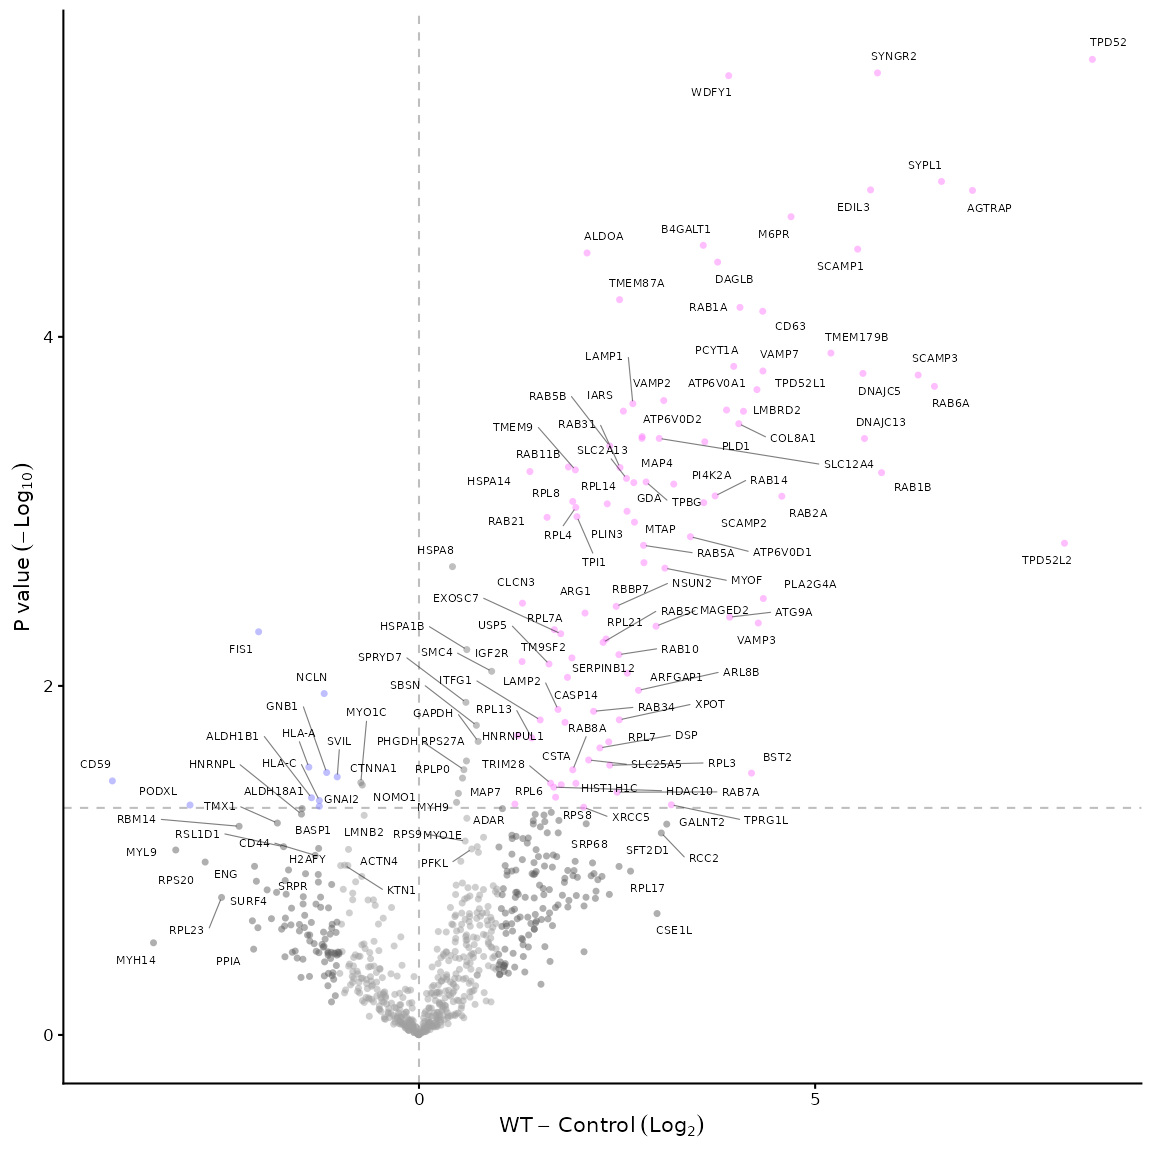
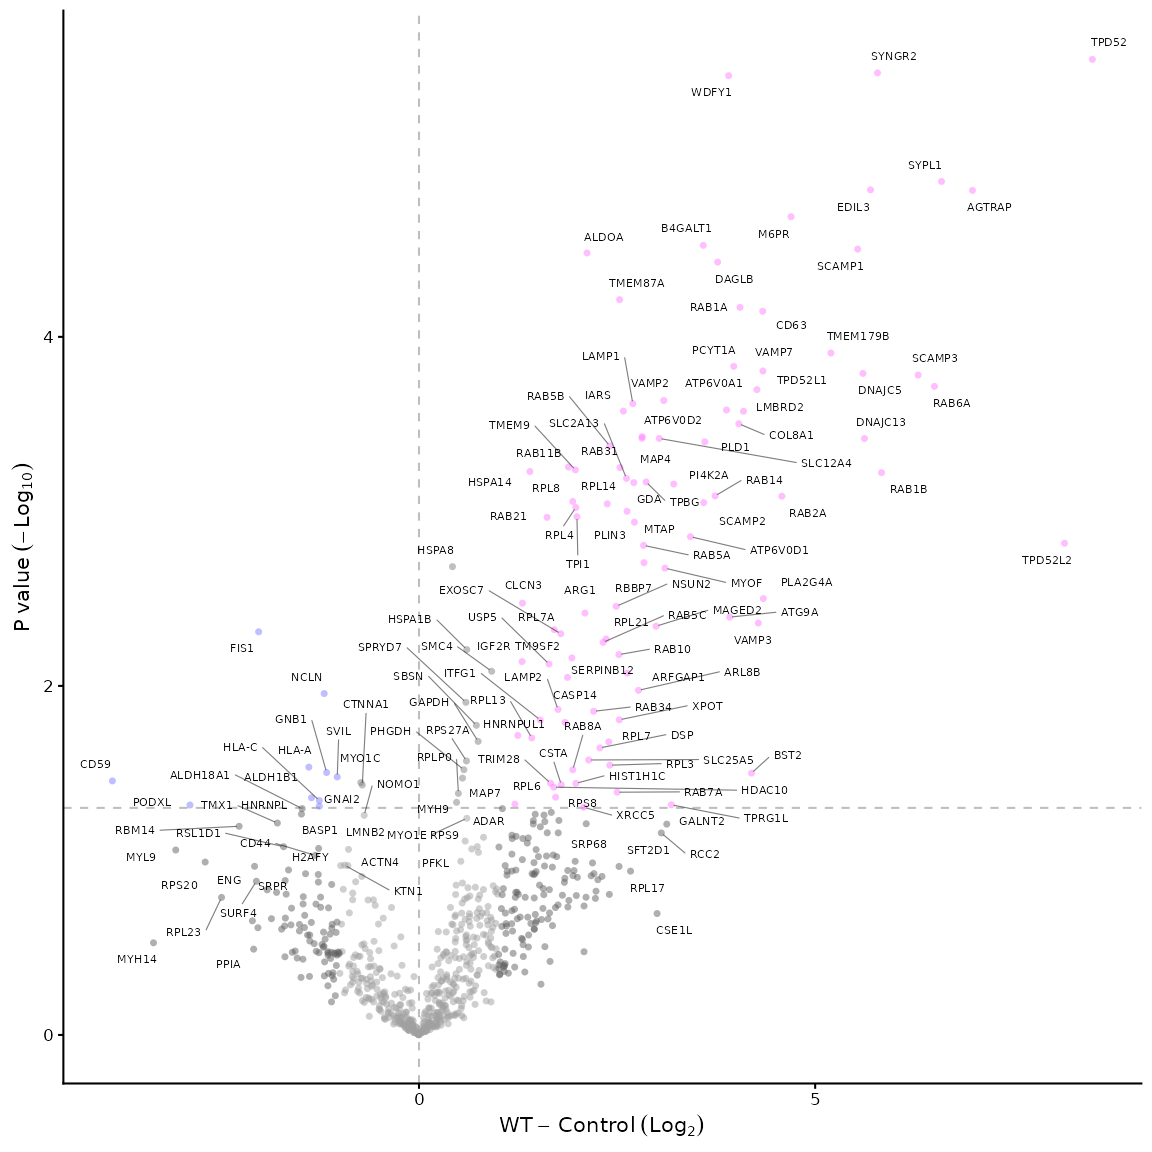
Deploying to gh-pages from @ quantixed/VolcanoPlotR@602afdd81a6dcf5f759c82663aa2ca5de7d788dd 🚀

diff --git a/articles/outputs.html b/articles/outputs.html
@@ -163,12 +163,21 @@ Some examples are shown below:</p>
 <h3 id="pca-plot">PCA plot<a class="anchor" aria-label="anchor" href="#pca-plot"></a>
 </h3>
 <p>This can be generated using the <code><a href="../reference/pca_plot_maxquant.html">pca_plot_maxquant()</a></code>
-function. The PCA plot shows a comparison between runs (experimental
-repeats), rather than between proteins.</p>
+function. The PCA plot by default shows a comparison between runs
+(experimental repeats), rather than between proteins.</p>
 <div class="sourceCode" id="cb4"><pre class="downlit sourceCode r">
-<code class="sourceCode R"><span><span class="co"># now we can generate the mean vs mean plot</span></span>
+<code class="sourceCode R"><span><span class="co"># pca of the experimental repeats</span></span>
 <span><span class="fu"><a href="../reference/pca_plot_maxquant.html">pca_plot_maxquant</a></span><span class="op">(</span><span class="va">df</span><span class="op">)</span></span></code></pre></div>
 <p><img src="outputs_files/figure-html/pca_plot-1.png" class="r-plt" alt="" width="576"></p>
+<p>Using the <code>by_protein</code> parameter, the PCA can be generated
+for the proteins instead of the experimental repeats. In this case, the
+points are coloured by significance based on the p-value and fold change
+thresholds. The settings for this plot can be adjusted in similar ways
+as for the volcano plot and the mean vs mean plot.</p>
+<div class="sourceCode" id="cb5"><pre class="downlit sourceCode r">
+<code class="sourceCode R"><span><span class="co"># pca of the proteins, coloured by significance</span></span>
+<span><span class="fu"><a href="../reference/pca_plot_maxquant.html">pca_plot_maxquant</a></span><span class="op">(</span><span class="va">df</span>, by_protein <span class="op">=</span> <span class="cn">TRUE</span><span class="op">)</span></span></code></pre></div>
+<p><img src="outputs_files/figure-html/pca_plot2-1.png" class="r-plt" alt="" width="576"></p>
 </div>
 </div>
   </main><aside class="col-md-3"><nav id="toc" aria-label="Table of contents"><h2>On this page</h2>

diff --git a/articles/outputs.md b/articles/outputs.md
@@ -102,13 +102,27 @@ mean_plot_maxquant(df, label_points = "5_10",
 
 This can be generated using the
 [`pca_plot_maxquant()`](https://quantixed.github.io/VolcanoPlotR/reference/pca_plot_maxquant.md)
-function. The PCA plot shows a comparison between runs (experimental
-repeats), rather than between proteins.
+function. The PCA plot by default shows a comparison between runs
+(experimental repeats), rather than between proteins.
 
 ``` r
 
-# now we can generate the mean vs mean plot
+# pca of the experimental repeats
 pca_plot_maxquant(df)
 ```
 
 ![](outputs_files/figure-html/pca_plot-1.png)
+
+Using the `by_protein` parameter, the PCA can be generated for the
+proteins instead of the experimental repeats. In this case, the points
+are coloured by significance based on the p-value and fold change
+thresholds. The settings for this plot can be adjusted in similar ways
+as for the volcano plot and the mean vs mean plot.
+
+``` r
+
+# pca of the proteins, coloured by significance
+pca_plot_maxquant(df, by_protein = TRUE)
+```
+
+![](outputs_files/figure-html/pca_plot2-1.png)